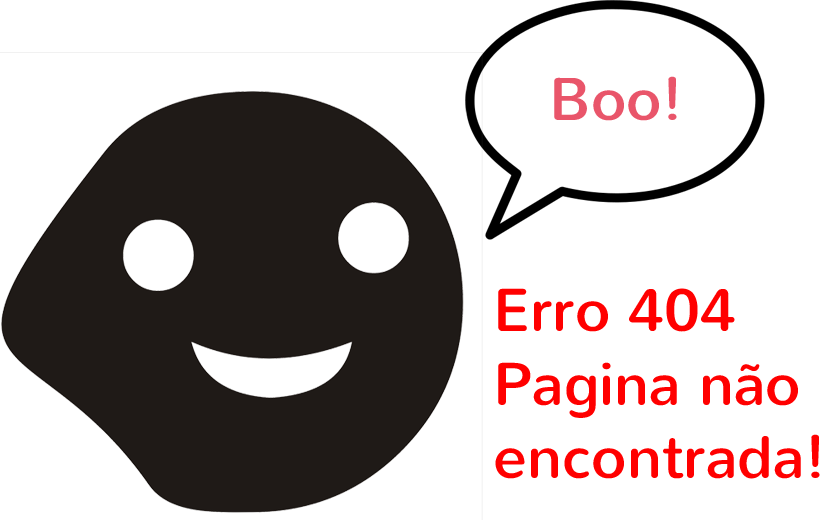
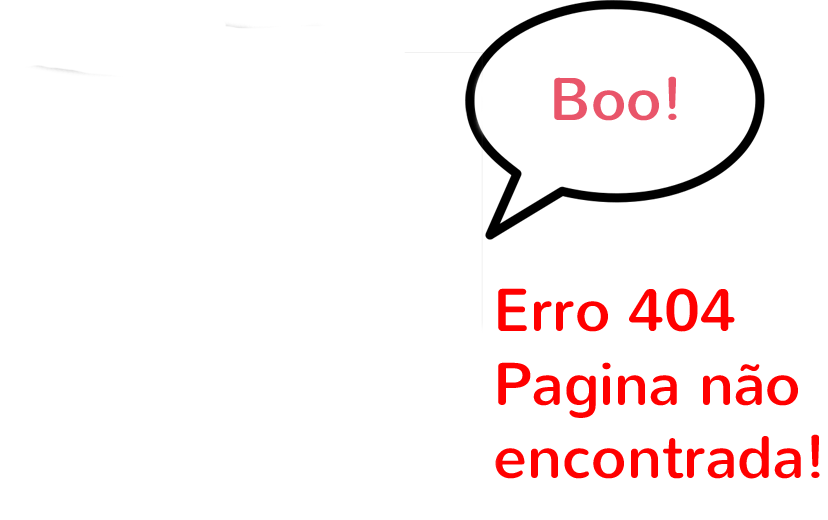
Página erro 404 finalizada

diff --git a/Sheila/css/estilo.css b/Sheila/css/estilo.css
@@ -117,7 +117,8 @@ div#embreve.texto hr { width: 370px; height: 5px; background-color: #E9556A; box
 div#embreve.texto div#embreveContato { width: 370px; height: 270px; background: url(../imagens/embreve-contato2.png) no-repeat; float: right; }
 div#embreve.texto div#embreveContato p { width: 140px; height: 260px; text-align: right; font-size: 25px; float: right; line-height: 1.3; }
 
-div#erro404 { width: 828px; height: 520px; background-color: #ff0000; clear: both; position: absolute;   }
+div#erro404 { background-color: #000; width: 100%; height: 100%; }
+div#erro404 div#fantasma { background: url(../imagens/erro404.png) no-repeat; width: 828px; height: 520px; }
 
 
 /*	Footer */       

diff --git a/Sheila/erro404.php b/Sheila/erro404.php
@@ -11,19 +11,14 @@ and open the template in the editor.
         <?php include './referencias.php';?>
     </head>
     <body>        
-         <?php include'./cabecalho.php'?>       
-        <div id="section_home">
-               
-            <section class="wrapper">
-               
-                <div id="erro404">
-                    
-                </div> 
-                
-            </section>
-        
-        </div>        
-        
+        <?php include'./cabecalho.php'?>      
+        <div id="section_home"></div>    
+        <div id="erro404">
+            <section class="wrapper">                  
+                <div id="fantasma"></div>
+            </section>   
+        </div>
+        <div id="section_home"></div>
         <?php include './rodape.php';?>
     </body>
 </html>
